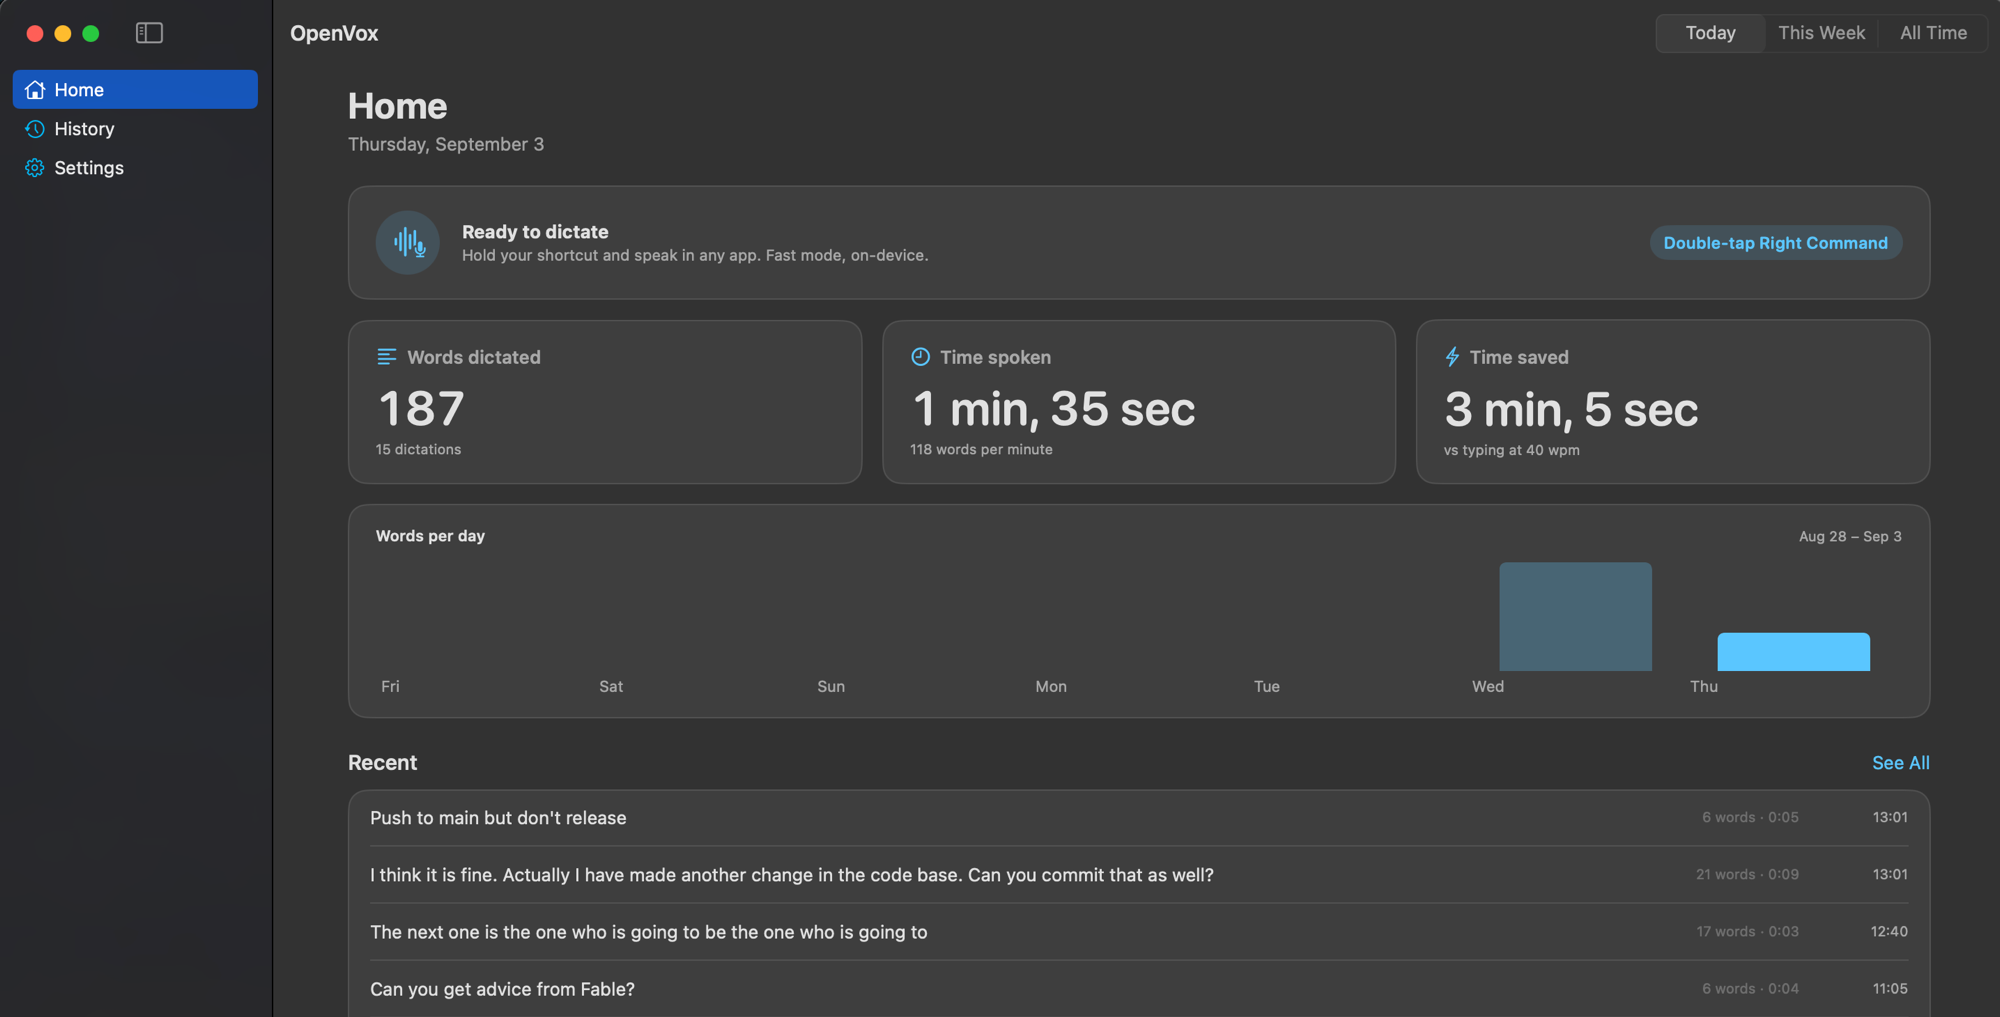
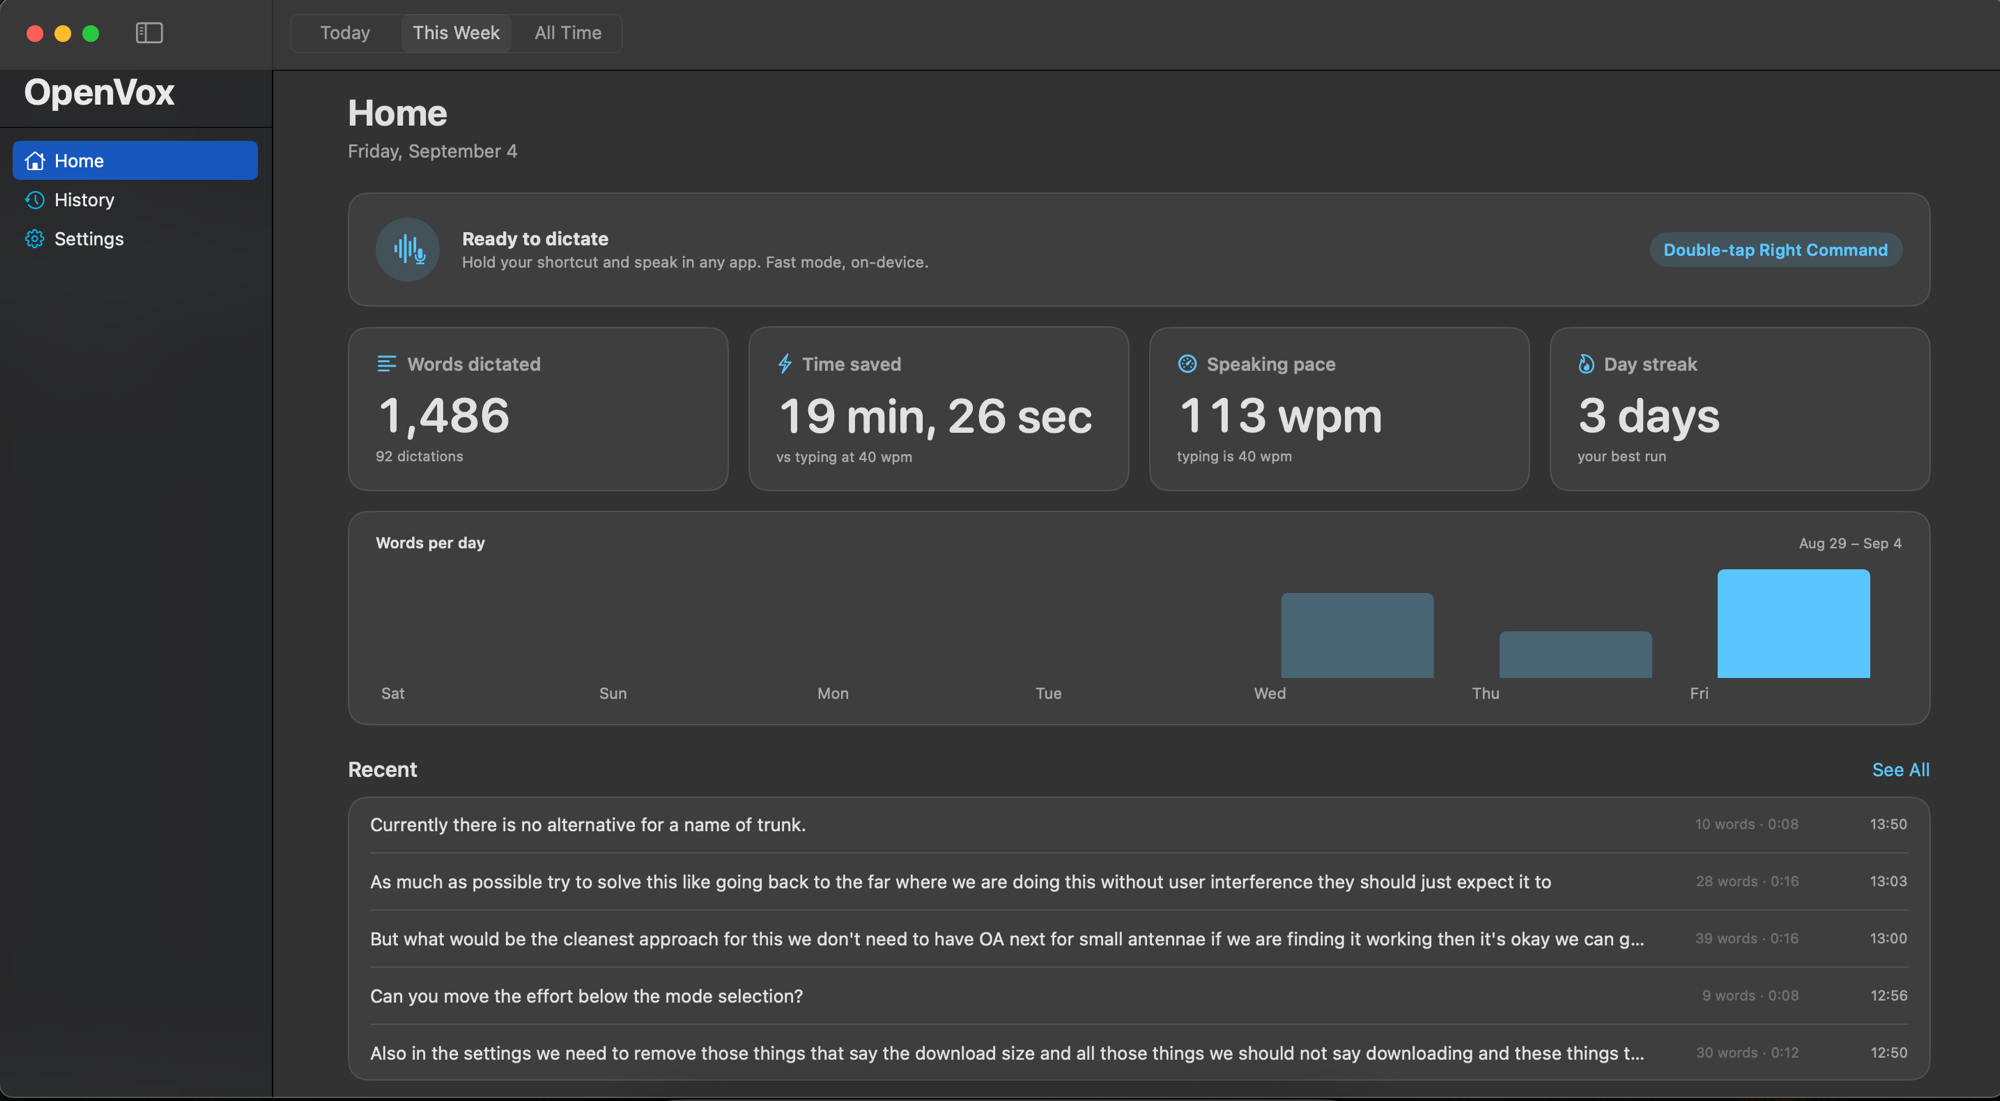
Show the current Home window in the README [skip ci]
The four stats changed, so the alt text now names speaking pace and day
streak in place of time spoken.

diff --git a/README.md b/README.md
@@ -6,7 +6,7 @@
     <a href="https://github.com/0xAnto/openvox/actions/workflows/ci.yml"><img src="https://github.com/0xAnto/openvox/actions/workflows/ci.yml/badge.svg" alt="Build status"></a>
     <a href="https://github.com/0xAnto/openvox/releases/latest"><img src="https://img.shields.io/github/v/release/0xAnto/openvox?display_name=tag" alt="Latest release"></a>
   </p>
-  <img src="docs/home.png" width="900" alt="OpenVox Home window: words dictated, time spoken, time saved, a words-per-day chart, and recent dictations">
+  <img src="docs/home.png" width="900" alt="OpenVox Home window: words dictated, time saved, speaking pace, day streak, a words-per-day chart, and recent dictations">
   <p><a href="https://github.com/0xAnto/openvox/releases/latest"><strong>Download for macOS</strong></a></p>
 </div>
 
